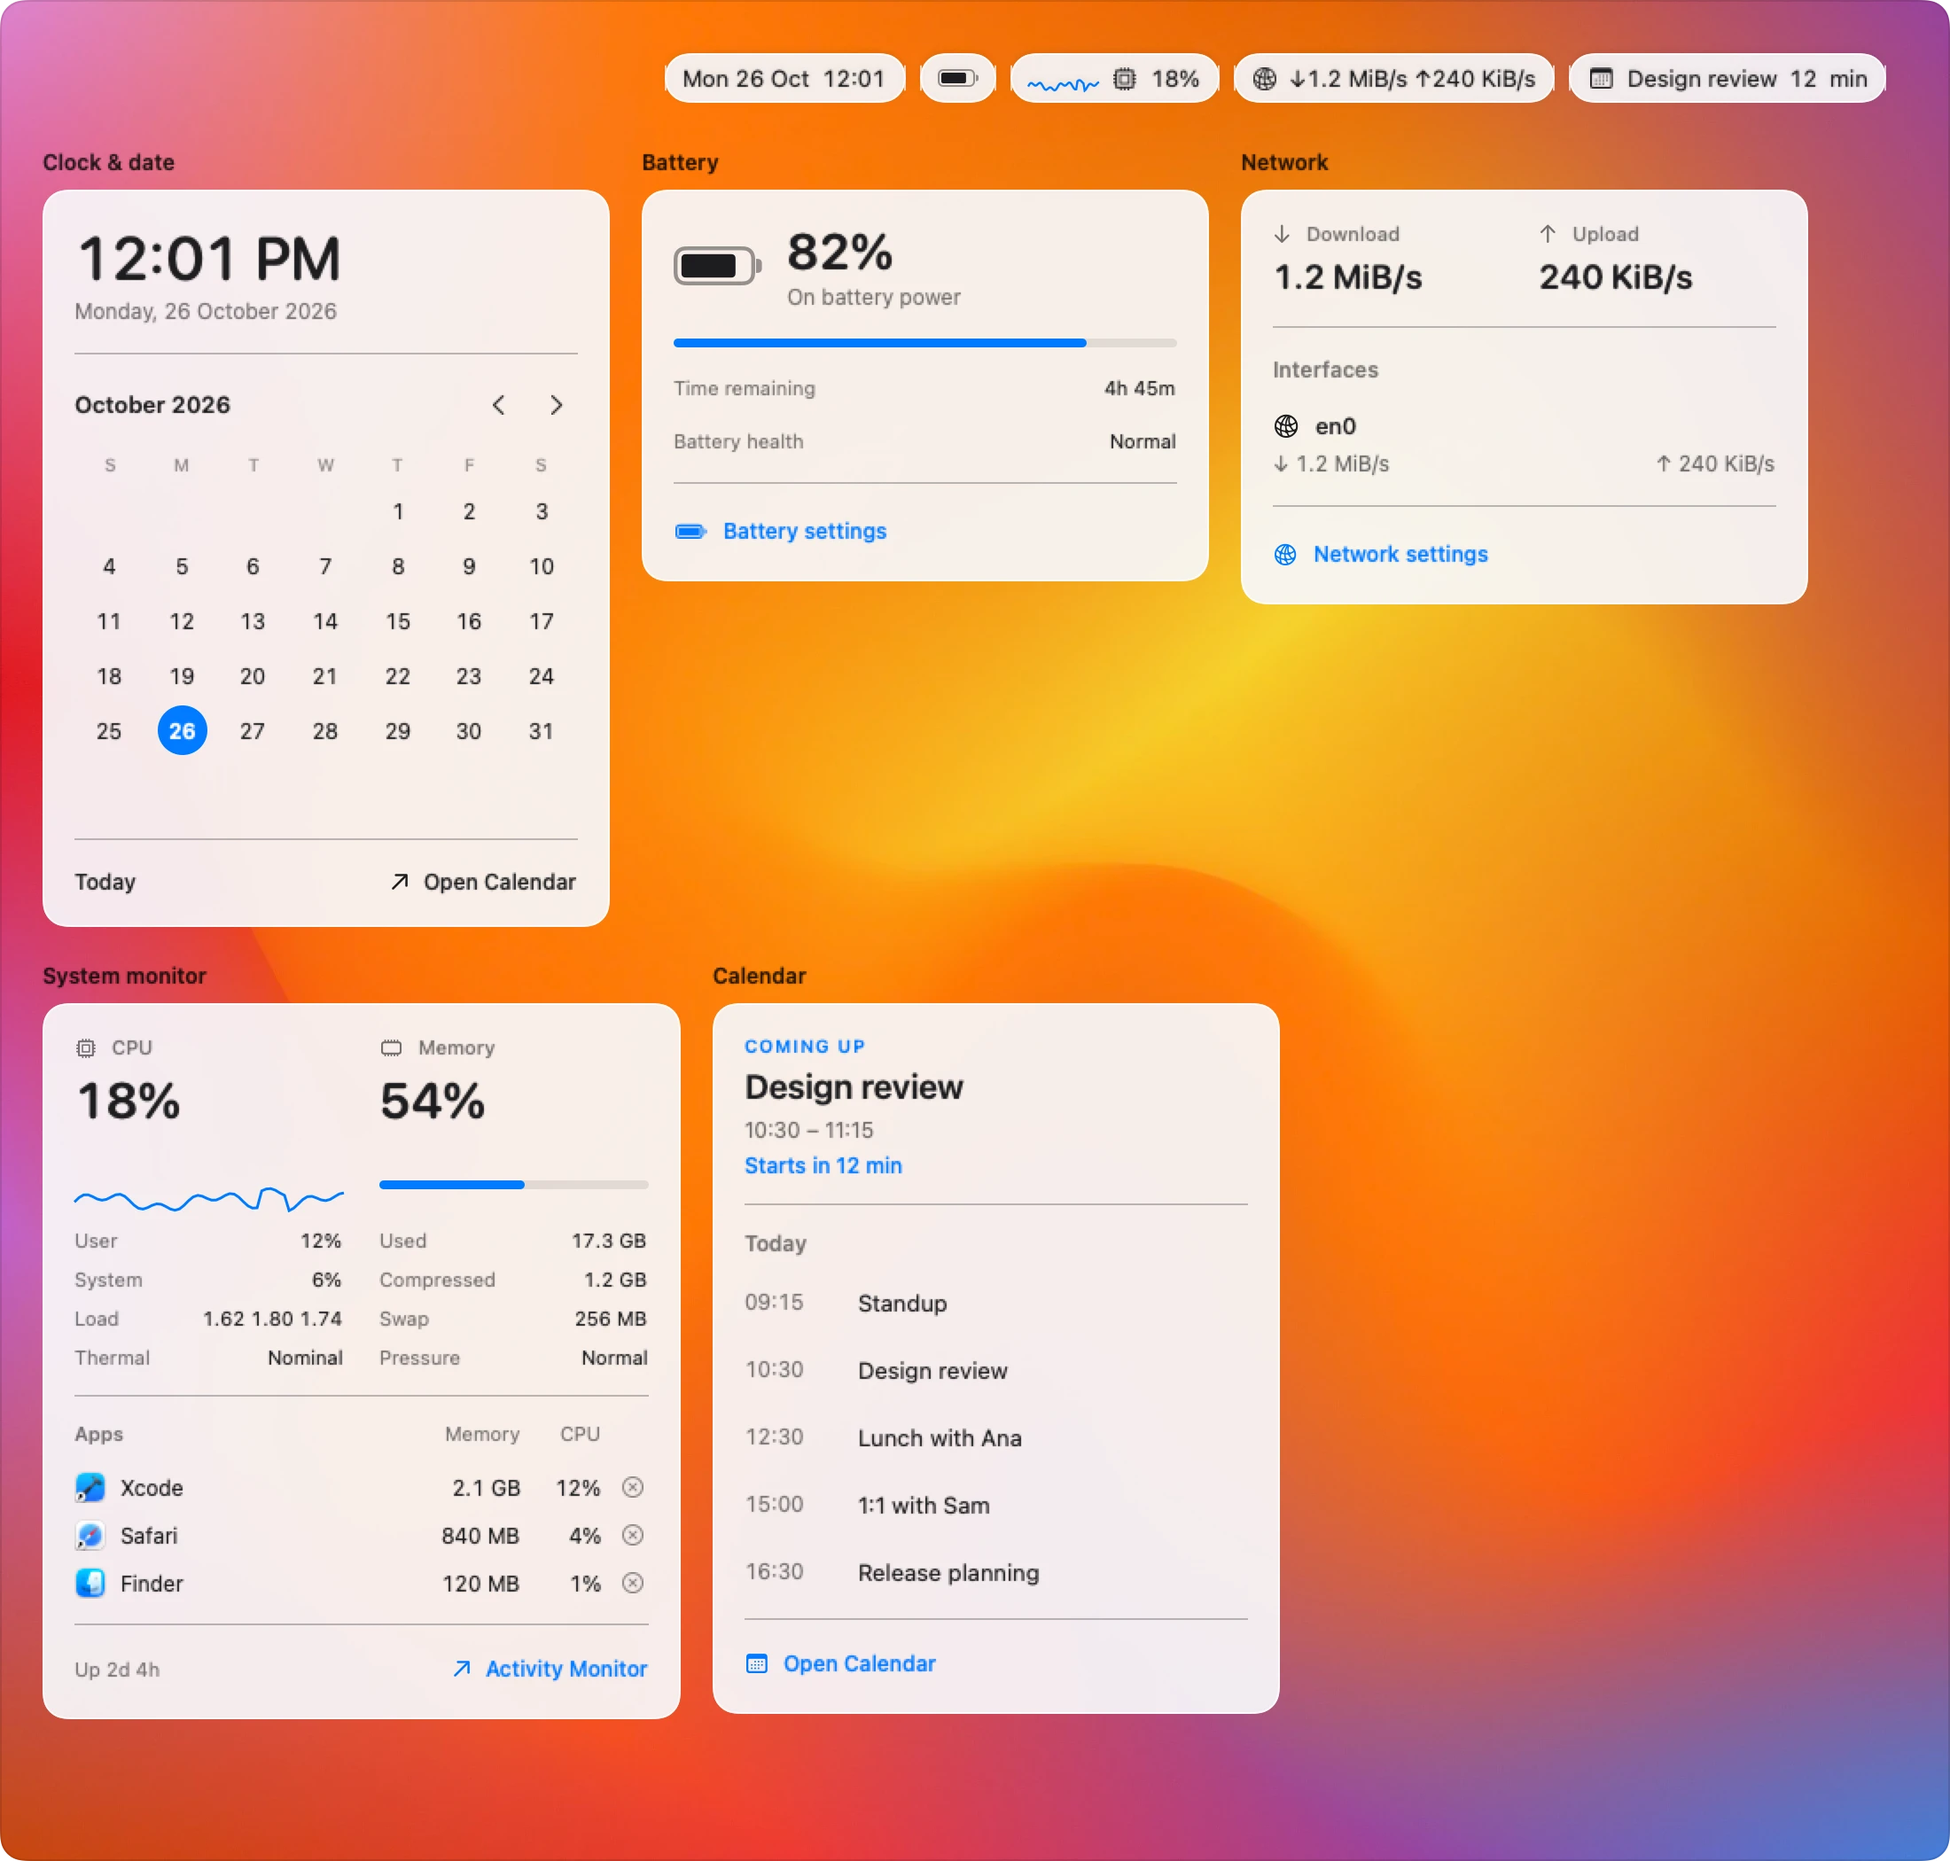
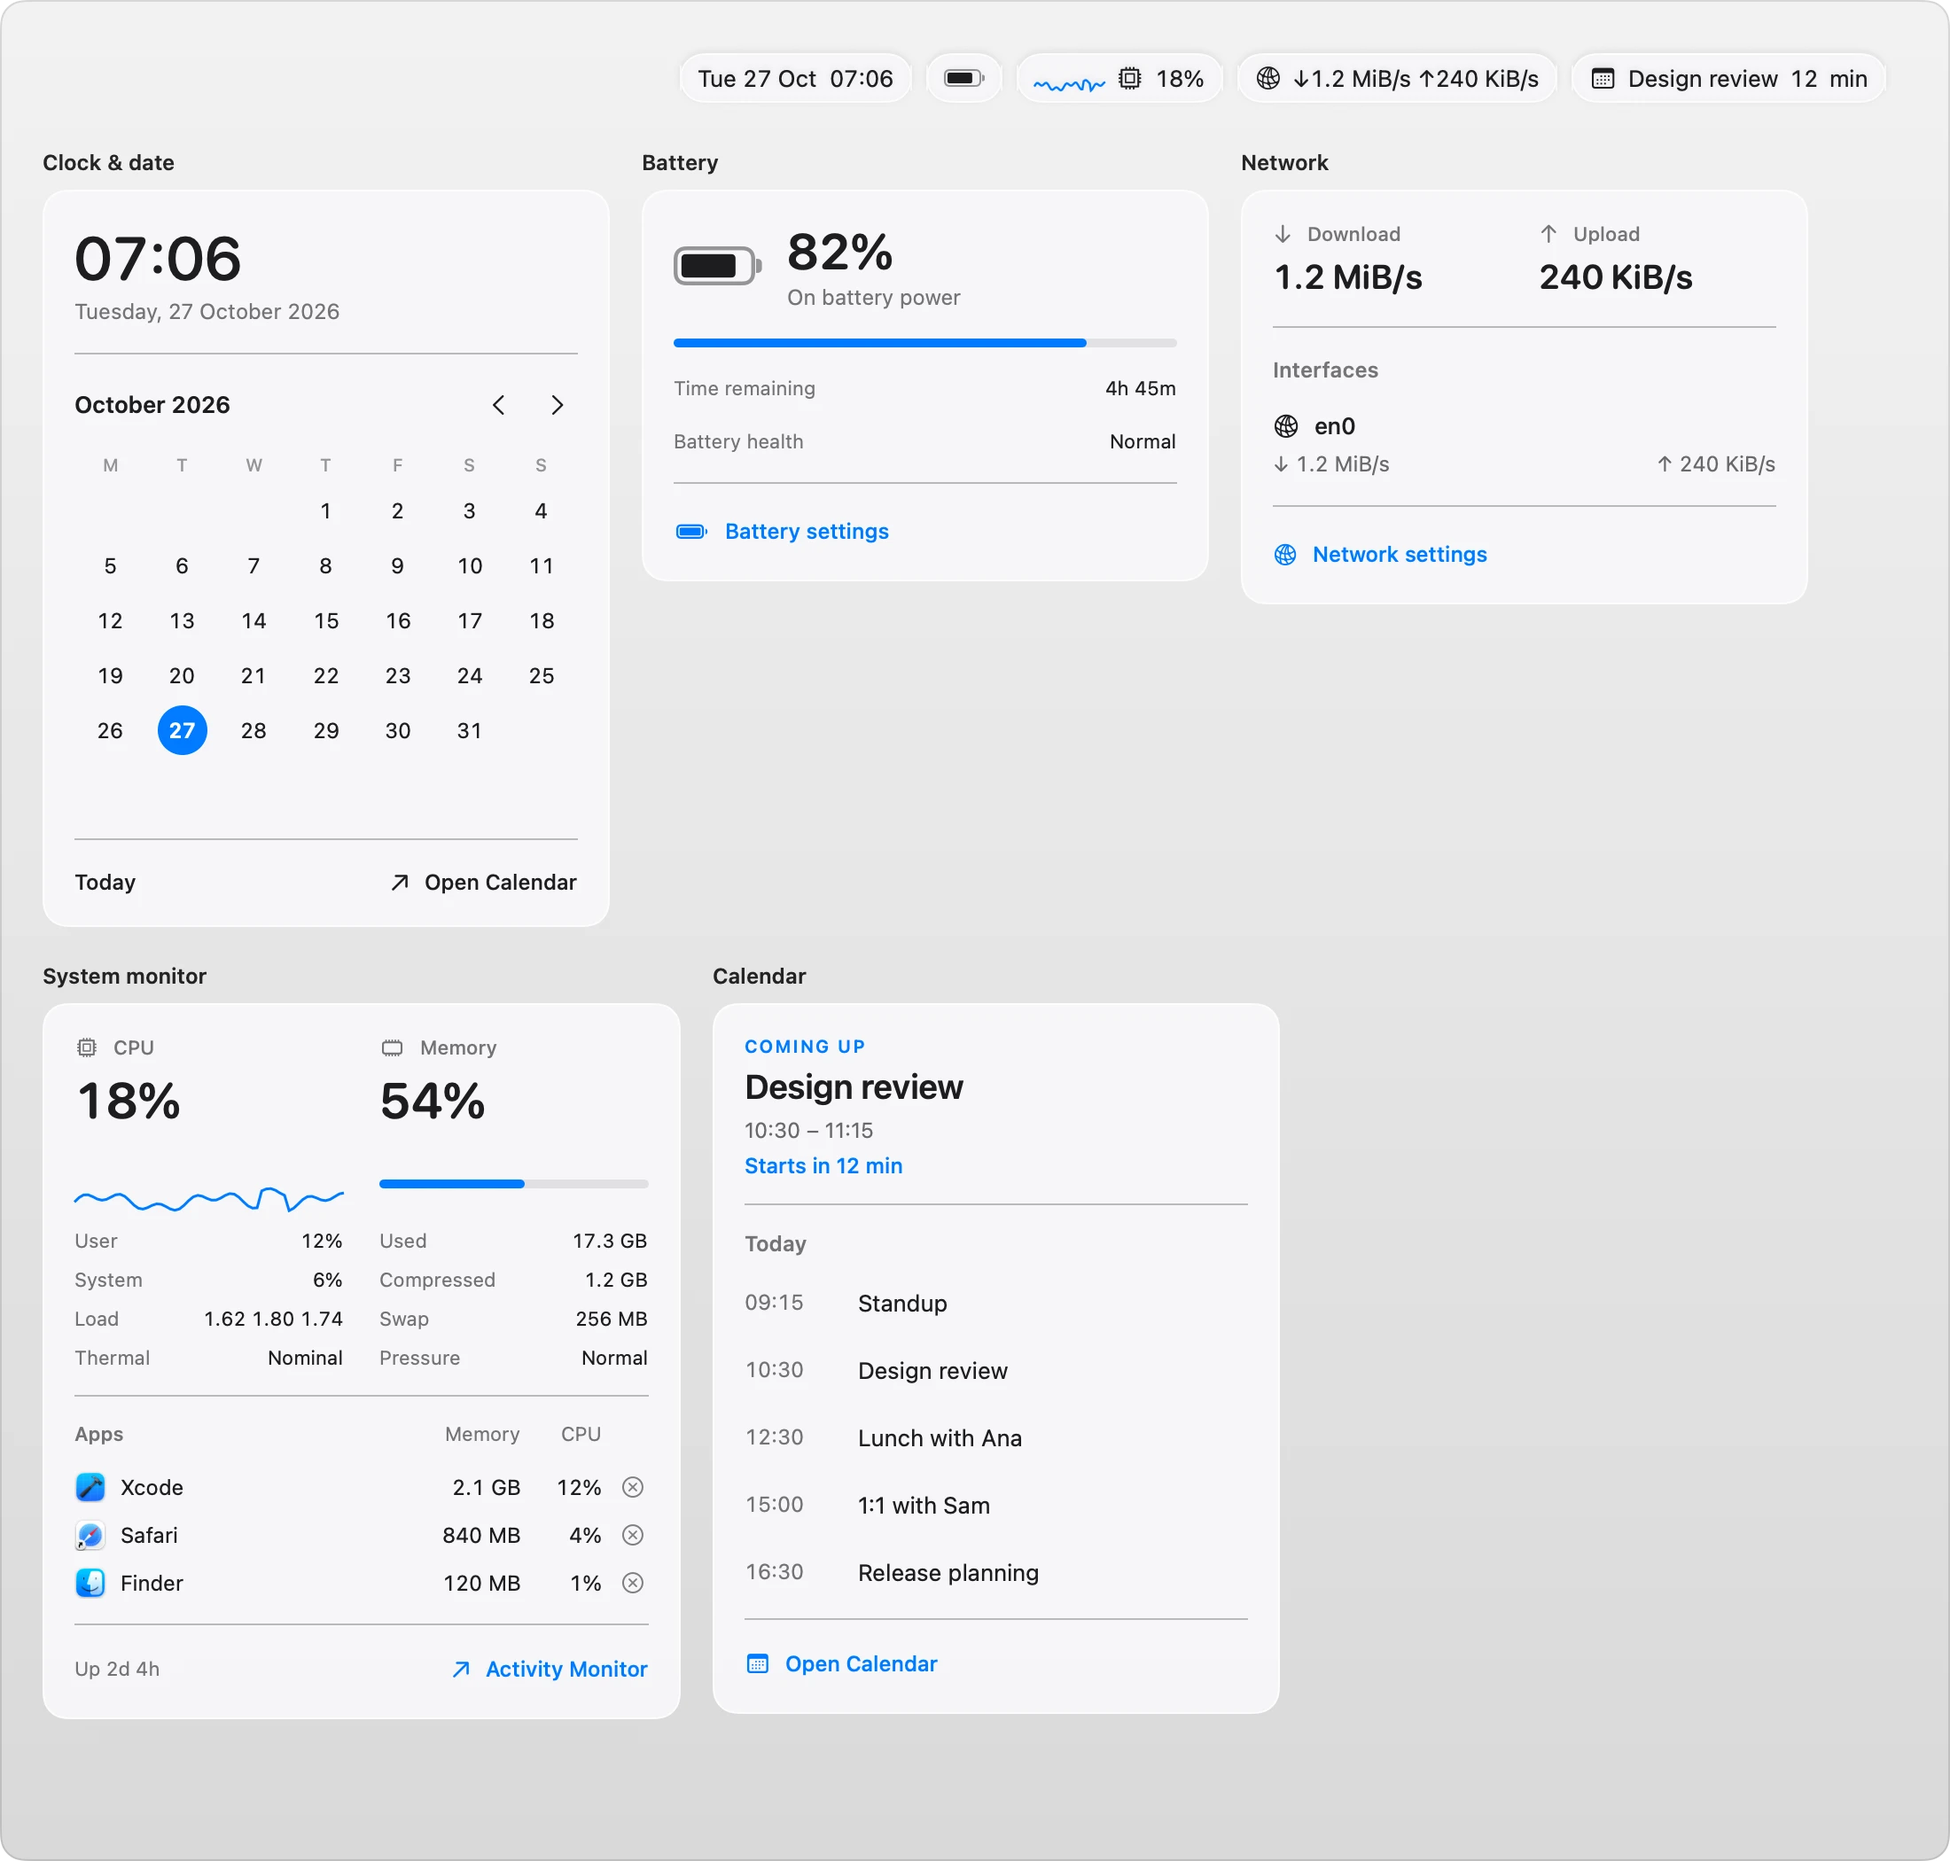
docs: show editing in place, the store and updates in the README
The Features list now covers editing the bar in place, motion, the
store with its share links, dragging apps between workspaces and the
update icon in the bar. The README shows five themes instead of all of
them, and the docs images draw the bars on a soft gray instead of the
amber wallpaper.

diff --git a/Sources/StableBar/DocsImages.swift b/Sources/StableBar/DocsImages.swift
@@ -24,11 +24,14 @@ enum DocsImages {
             try await save(hero(bar).background { backdrop(dark: dark) }, "hero", size: NSSize(width: 1100, height: 270), stores: [bar])
 
             let themes = try ThemeCatalog(packages: samples.appending(path: "packages")).choices.map { choice in
-                (choice.manifest.name, try store(choice.manifest.id, theme: choice.isBuiltIn ? nil : choice.manifest.id))
+                (choice.manifest.id, choice.manifest.name, try store(choice.manifest.id, theme: choice.isBuiltIn ? nil : choice.manifest.id))
             }
             try await save(gallery(themes, dark: dark).background { backdrop(dark: dark) }, "themes",
-                           size: NSSize(width: 1100, height: 78 * CGFloat(themes.count) + 10), stores: themes.map(\.1))
-            themes.forEach { $0.1.stop() }
+                           size: NSSize(width: 1100, height: galleryHeight(themes.count)), stores: themes.map(\.2))
+            let picks = themePicks.compactMap { id in themes.first { $0.0 == id } }
+            try await save(gallery(picks, dark: dark).background { backdrop(dark: dark) }, "themes-picks",
+                           size: NSSize(width: 1100, height: galleryHeight(picks.count)), stores: picks.map(\.2))
+            themes.forEach { $0.2.stop() }
 
             let controls = try store("controls", theme: "rose-pine", widgets: barWidgets + [controlsWidget])
             let popups = HStack(alignment: .top, spacing: 24) {
@@ -80,10 +83,13 @@ enum DocsImages {
     }
 
     private static let display = BarDisplay(id: 1, isBuiltIn: false, isMain: true, notch: nil)
-    private static let darkBackdrop = NSImage(contentsOf: Bundle.main.url(forResource: "SetupAmberDark", withExtension: "heic")!)!
+    /// The themes the README shows, a quiet few with different shapes; the guide shows them all.
+    private static let themePicks = ["built-in", "rose-pine", "leman", "nord", "notch"]
 
+    /// A soft gray behind the bars and popups, so the themes carry the color.
     private static func backdrop(dark: Bool) -> some View {
-        Image(nsImage: dark ? darkBackdrop : Wallpaper.image!).resizable().scaledToFill()
+        LinearGradient(colors: dark ? [Color(white: 0.22), Color(white: 0.12)] : [Color(white: 0.95), Color(white: 0.85)],
+                       startPoint: .top, endPoint: .bottom)
     }
 
     private static func bar(_ store: BarStore) -> some View {
@@ -106,22 +112,24 @@ enum DocsImages {
             .frame(maxHeight: .infinity, alignment: .top)
     }
 
-    private static func gallery(_ themes: [(String, BarStore)], dark: Bool) -> some View {
+    private static func gallery(_ themes: [(String, String, BarStore)], dark: Bool) -> some View {
         VStack(spacing: 0) {
-            ForEach(themes, id: \.0) { name, store in
-                VStack(alignment: .leading, spacing: 4) {
+            ForEach(themes, id: \.0) { _, name, store in
+                VStack(alignment: .leading, spacing: 3) {
                     Text(name)
-                        .font(.system(size: 12, weight: .semibold))
+                        .font(.system(size: 11, weight: .semibold))
                         .foregroundStyle(dark ? Color.white.opacity(0.72) : Color.black.opacity(0.55))
                         .padding(.leading, 16)
                     bar(store)
                 }
-                .frame(height: 78, alignment: .top)
+                .frame(height: 64, alignment: .top)
             }
         }
-        .padding(.top, 12)
+        .padding(.top, 10)
         .frame(maxHeight: .infinity, alignment: .top)
     }
+
+    private static func galleryHeight(_ count: Int) -> CGFloat { 64 * CGFloat(count) + 12 }
 
     private static func popup(_ store: BarStore, _ id: String) -> some View {
         let configuration = store.configuration!.look(on: .monitor)

diff --git a/README.md b/README.md
@@ -26,21 +26,24 @@ Themes, widgets and popups, set up in the app or in plain JSON.
 ## Features
 
 - **Native.** Swift, AppKit and SwiftUI, with no web view or private window-server API, except in the opt-in [macOS Spaces](docs/widgets.md#macos-spaces-workspaces) workspace source. One panel per display; workspace changes update the widgets in place instead of recreating windows.
-- **Guided setup.** Pick a preset, a theme and a placement, and watch each choice on your real bar. Then edit the bar in place, in Settings or in JSON.
-- **Themes.** Fifteen ship with the app and more come from the store. **Save as Theme…** turns your own look into one. Experimental Liquid Glass on macOS 26.
+- **Edit the bar in place.** Drag widgets along the bar itself, on every display, while the others slide aside to make room. **+** adds a widget exactly where it sits, and **Undo** takes back any change. Settings and the JSON file edit the same bar.
+- **Guided setup.** Pick a preset, a theme and a placement, and watch each choice on your real bar.
+- **Themes and motion.** Fifteen ship with the app and more come from the store. **Save as Theme…** turns your own look into one. Widgets slide aside for their neighbors, popups fade or zoom out of their widget and changing text cross-fades or rolls, in one of four motion styles or none. Experimental Liquid Glass on macOS 26.
+- **Store.** Install widgets and themes from **Settings → Packages** after reviewing the commands, permissions and hosts they use; an update keeps the previous version to roll back to. Share a package with a `stablebar://package` link, or host a private source for your team.
 - **Built-in widgets.** Workspaces, app menus, the active app, clock, CPU and memory, network, battery, sound and calendar, without running a script.
 - **Any script is a widget.** Print text or JSON from any language, refresh on a timer or on events, and open a popup with graphs, lists and controls.
-- **Window managers.** Workspaces from [AeroSpace](https://github.com/nikitabobko/AeroSpace), [yabai](https://github.com/koekeishiya/yabai) or [OmniWM](https://github.com/OmniNull/OmniWM). Without one, StableBar can keep windows and notifications clear of the bar.
+- **Window managers.** Workspaces from [AeroSpace](https://github.com/nikitabobko/AeroSpace), [yabai](https://github.com/koekeishiya/yabai) or [OmniWM](https://github.com/OmniNull/OmniWM). With AeroSpace or yabai, drag an app's icon onto another workspace to move its windows. Without a window manager, StableBar can keep windows and notifications clear of the bar.
 - **Every display.** Notch-aware placement, widgets per kind of screen and a separate bar for each screen setup.
+- **Updates in the bar.** When a release is out, an icon fades into the bar. Click it to read every change since your version, then download, install and relaunch.
 - **Scriptable.** The command line queries and edits the running bar and sends events from other tools.
 
 ## Themes
 
-The same bar in each theme that ships with StableBar. Choose one during setup, cycle through them on your own bar with **Try Themes…**, or get more from the [store](https://github.com/Seb-GRAF/stablebar-packages).
+The same bar in five of the themes that ship with StableBar. Choose one during setup, cycle through all of them on your own bar with **Try Themes…**, see each one in [Themes](docs/themes.md), or get more from the [store](https://github.com/Seb-GRAF/stablebar-packages).
 
 <picture>
-  <source media="(prefers-color-scheme: dark)" srcset="docs/images/themes-dark.webp">
-  <img src="docs/images/themes-light.webp" alt="One bar shown in each theme that ships with StableBar">
+  <source media="(prefers-color-scheme: dark)" srcset="docs/images/themes-picks-dark.webp">
+  <img src="docs/images/themes-picks-light.webp" alt="One bar in five themes: Built-in, Rosé Pine, Léman, Nord and Notch">
 </picture>
 
 ## Popups
